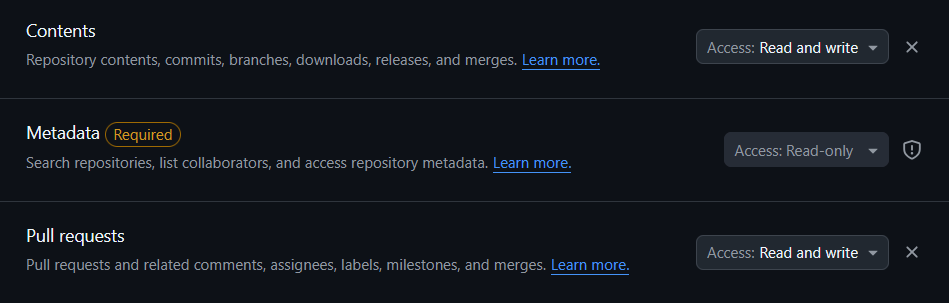
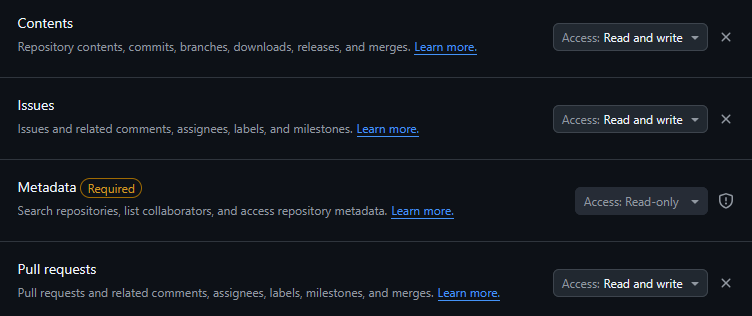
Update github permission in docs

diff --git a/README.md b/README.md
@@ -40,7 +40,8 @@ In order to use **pr-cli** you will need a Github Token. If you do not have a Gi
 https://github.com/settings/personal-access-tokens
 
 Ensure you have these permissions:
-![Github Perms](/docs/perms.png) 
+
+![Read and Write for Pull Requests, Issues and Contents](/docs/perms.png) 
 
 
 ## Installation
